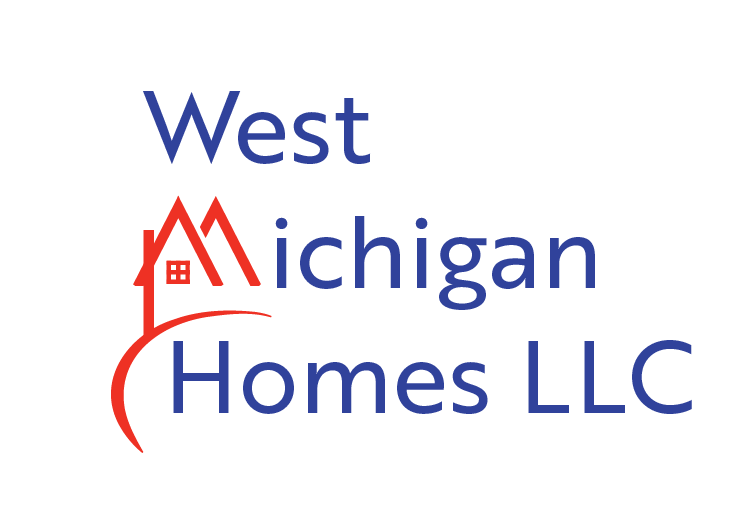
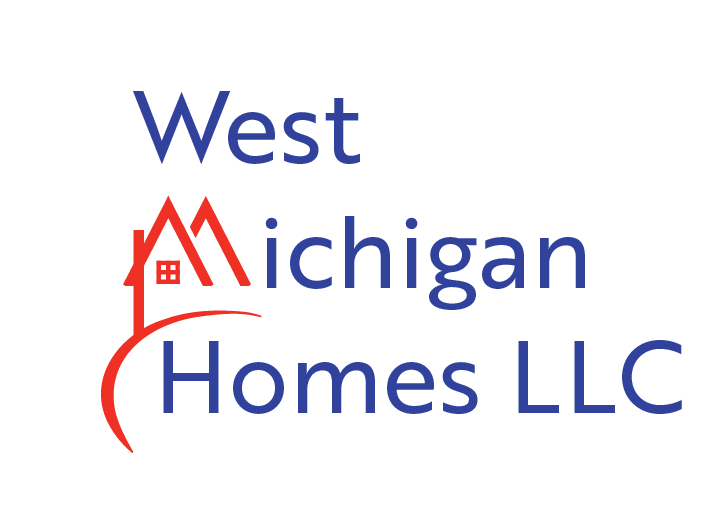
more projects

diff --git a/src/data/projects.ts b/src/data/projects.ts
@@ -20,11 +20,18 @@ export const projects: Project[] = [
     title: "Labs@Home Application",
     category: "UX",
     description:
-      "Labs@Home is a full-stack desktop application designed to help CMU computer science students complete lab assignments using virtual machines, without needing to understand all the technical complexity behind the scenes. ",
+      "A full-stack desktop application designed to help CMU computer science students complete lab assignments using virtual machines, without needing to understand all the technical complexity behind the scenes. ",
     image: "/projects/Labs@Home.png",
     video: "https://youtu.be/AZbAEzI8MvU",
-    technologies: ["Tauri", "React", "Rust", "React Router", "React Bootstrap"],
-    link: "https://github.com/bange1cm/Labs-Home",
+    technologies: [
+      "Usability Studies",
+      "Design Thinking",
+      "Tauri",
+      "React",
+      "Rust",
+      "React Router",
+      "React Bootstrap",
+    ],
     details: `This project started from Professor Patrick Seeling’s research on virtualized lab environments and delta files. I took that foundation and built a full-stack application with a strong emphasis on UX-driven development.
     The Process: 
 		1. Designed and developed a cross-platform desktop app using Tauri v2
@@ -37,6 +44,17 @@ export const projects: Project[] = [
 		This project challenged me to take a very technical system and design an experience that actually makes sense to users. I’m so excited to have the application utilized in upcoming semesters!
 
 		Huge thanks to Professor Patrick Seeling for the guidance and support throughout this project. Additional thanks to the Central Michigan University Honors Program for supporting this work and funding the poster presentation.`,
+  },
+  {
+    id: "ExpenseReport",
+    title: "Expense Reporting Application",
+    category: "UX",
+    description:
+      "A redesign of the Auto-Owners Associate expense reporting system, focused on improving usability and streamlining the reporting process for employees.",
+    image: "/projects/ExpenseReport.png",
+    technologies: ["Axure", "Lucid", "Design Thinking", "Usability Studies"],
+    link: "https://github.com/bange1cm/Labs-Home",
+    details: `TBD`,
   },
   {
     id: "HopOff",
@@ -54,16 +72,54 @@ export const projects: Project[] = [
   },
   {
     id: "MyCows",
-    title: "My Cows! mobile game",
+    title: "My Cows!",
     category: "Coding",
     description:
-      "My Cows! is a mobile game developed at SpartaHack, Michigan State University’s annual hackathon. After spending too much time on phones during road trips, we wanted to create a competition to encourage passangers to look out the window and enjoy the scenery. ",
+      "A mobile game developed at SpartaHack, Michigan State University’s annual hackathon. The game encourages competition on road trips to spot cows and turn them into hamburgers.",
     image: "/projects/MyCows.png",
     technologies: ["React", "Node.js", "Convex"],
     link: "https://devpost.com/software/my-cows-roadtrip-wrapped?ref_content=my-projects-tab&ref_feature=my_projects",
-    details: `For our project, we created an interface for fun road trip game called "My Cows!" In this game, different players keep track of how many cows they spot on the trip, and are able increase their cows, decrease other players' cows, and turn their cows into hamburgers. The goal is to have as many hamburgers as possible at the end of the road trip. We did not invent the road trip game but instead made a website for users to be able create and join games, making keeping track of everyone's cows much easier and more fun!
+    details: `After spending too much time on phones during road trips, we wanted to create a competition to encourage passangers to look out the window and enjoy the scenery.
+    For our project, we created an interface for fun road trip game called "My Cows!" In this game, different players keep track of how many cows they spot on the trip, and are able increase their cows, decrease other players' cows, and turn their cows into hamburgers. The goal is to have as many hamburgers as possible at the end of the road trip. We did not invent the road trip game but instead made a website for users to be able create and join games, making keeping track of everyone's cows much easier and more fun!
 	On the technical side, we used next.js framework and used convex for our backend database. Our graphics and our database were set up by my teammates. 
 	I really enjoyed taking the project from the ground up by deciding how the game would be translated to a mobile version, what features were required, and what we needed to do to ensure a good game. After outlining the specs, I spent most of my time creating the front end with React. `,
+  },
+  {
+    id: "CustomerAPI",
+    title: "Customer API",
+    category: "Coding",
+    description:
+      "Customer API is a backend service that manages customer data and interactions for a fictional company.",
+    image: "/projects/customerAPI.png",
+    technologies: ["Python", "FastAPI", "SQLite", "Pydantic"],
+    link: "https://gitlab.com/cmich1/crm/-/tree/9a4e6c186a04bb57152cf1d12662772b32f8ba4a/cmich",
+    details: `This project provides a RESTful API for managing customer information. It supports operations such as creating, retrieving, searching, and deleting customers. The API is built using FastAPI for high performance and clean design, Pydantic for data validation, and SQLite as the primary database backend. 
+    Our team featured three CMU students who worked on creating the API and the database. A group of students from a German University built a frontend utilizing our backend. When then tested and evaluated eachother's code.
+    This project was a great opportunity to apply backend development skills and create a functional API that could be used in real-world applications.`,
+  },
+  {
+    id: "VetDBMS",
+    title: "Veterinary Database Management System",
+    category: "Coding",
+    description:
+      "A database management system for veterinary clinics that handles pet records, owner records, vet records, and breed information.",
+    image: "/projects/sql.png",
+    technologies: ["SQL", "PL/SQL"],
+    details: ` Our team featured three CMU students who worked on creating the database schema and implementing the necessary procedures. We designed and implemented a relational database for an imaginary veterinary clinic using SQL. The system had four entities - vet, pet, owner, breed - and included keys, constraints, and some example queries.
+    It supports operations such as creating, retrieving, searching, and deleting records. The system is built using SQL and PL/SQL for efficient data management and querying.`,
+  },
+  {
+    id: "FamilyFixUp",
+    title: "Family Fix-Up",
+    category: "Coding",
+    description:
+      "Award winning Java and JavaFX game focused on pun filled fighting of website bugs.",
+    image: "/projects/FamilyFixUp.png",
+    technologies: ["SQL", "PL/SQL"],
+    details: `As part of an object-oriented programming class at Central Michigan University, we were tasked with creating a project throughout the semester using Java and JavaFX (a GUI library). 
+    For our project, we created a short game that would be enjoyable for people interested in software and programming. The premise of the game is tracking down things that are visually wrong with a website that turn out to be bugs, like insect bugs, that you fight in a Pokemon esque fight sequence. The game is filled with little coding puns like this that we had a great time creating and incorporating. 
+    The game specifications, backend Java, frontend GUI, testing, and project management were all done by our group. Throughout the project we collaborated, adapted, and problem solved. I ended up taking on a project management like role, doing documentation, overseeing our timeline, and coordinating tasks. 
+    At end of the semester, we ended up winning best project in the class for our game!`,
   },
   {
     id: "AfricanForestElephant",
@@ -74,6 +130,17 @@ export const projects: Project[] = [
     image: "/projects/AfricanForestElephant.png",
     technologies: ["Adobe Illustrator"],
     pdf: "/projects/AfricanForestElephant.pdf",
+    details: `To be finished`,
+  },
+  {
+    id: "WestMichiganPropertyLogo",
+    title: "Alaska Property Management and West Michigan Homes Logos",
+    category: "Graphic Design",
+    description:
+      "Logo design for the Alaska Property Management and West Michigan Homes. The design incorporates earthy tones and natural elements to reflect the properties' habitats and conservation efforts.",
+    images: ["/projects/APM.png", "/projects/WMH.png"],
+    technologies: ["Adobe Illustrator"],
+    pdf: "/projects/WestMichiganPropertyLogo.pdf",
     details: `To be finished`,
   },
   {
@@ -91,12 +158,12 @@ export const projects: Project[] = [
     technologies: ["Ceramics"],
   },
   {
-    id: "HorrorProject",
-    title: "Horror Project",
+    id: "WatchYourBack",
+    title: "Watch Your Back",
     category: "Small Projects",
     description:
       "A video production project exploring horror themes and storytelling.",
-    video: "https://www.youtube.com/watch?v=example",
+    video: "https://youtu.be/5SaPLDKKBS0",
     technologies: ["Video Production"],
   },
 
